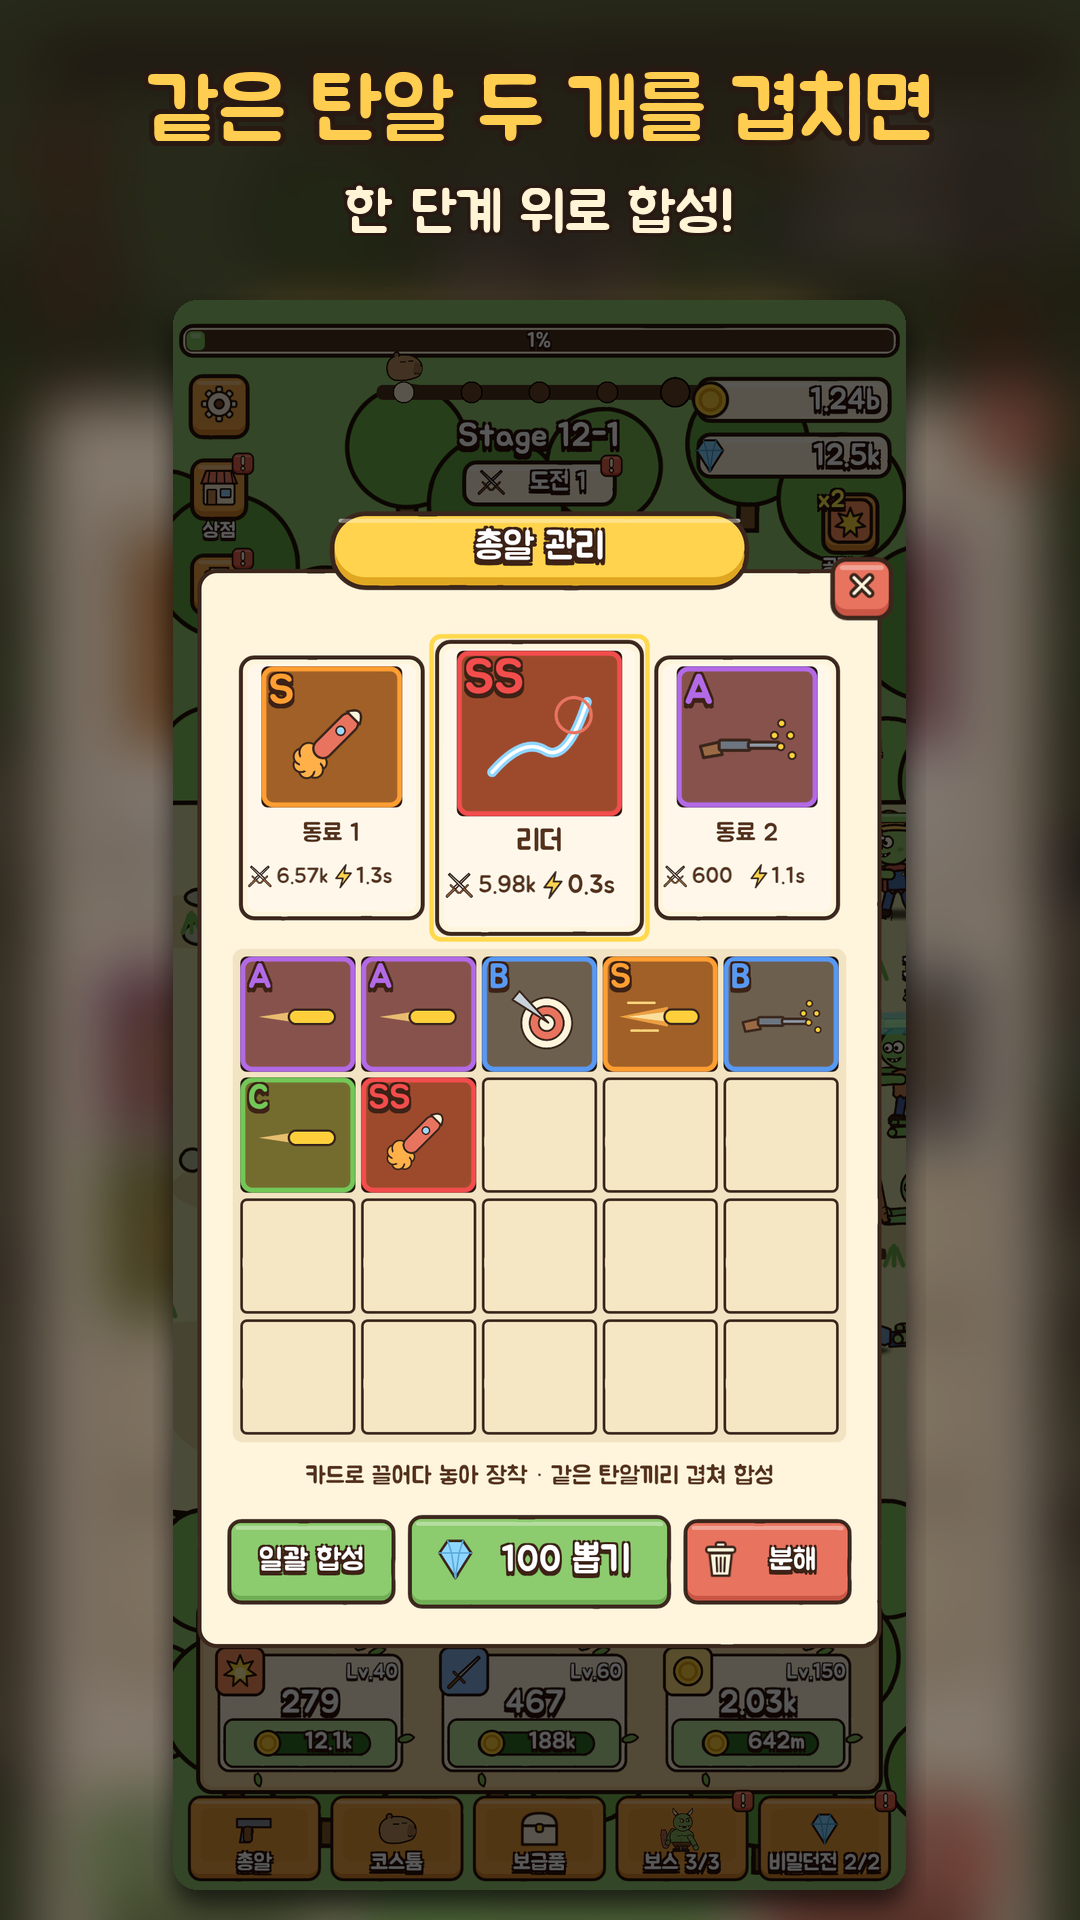
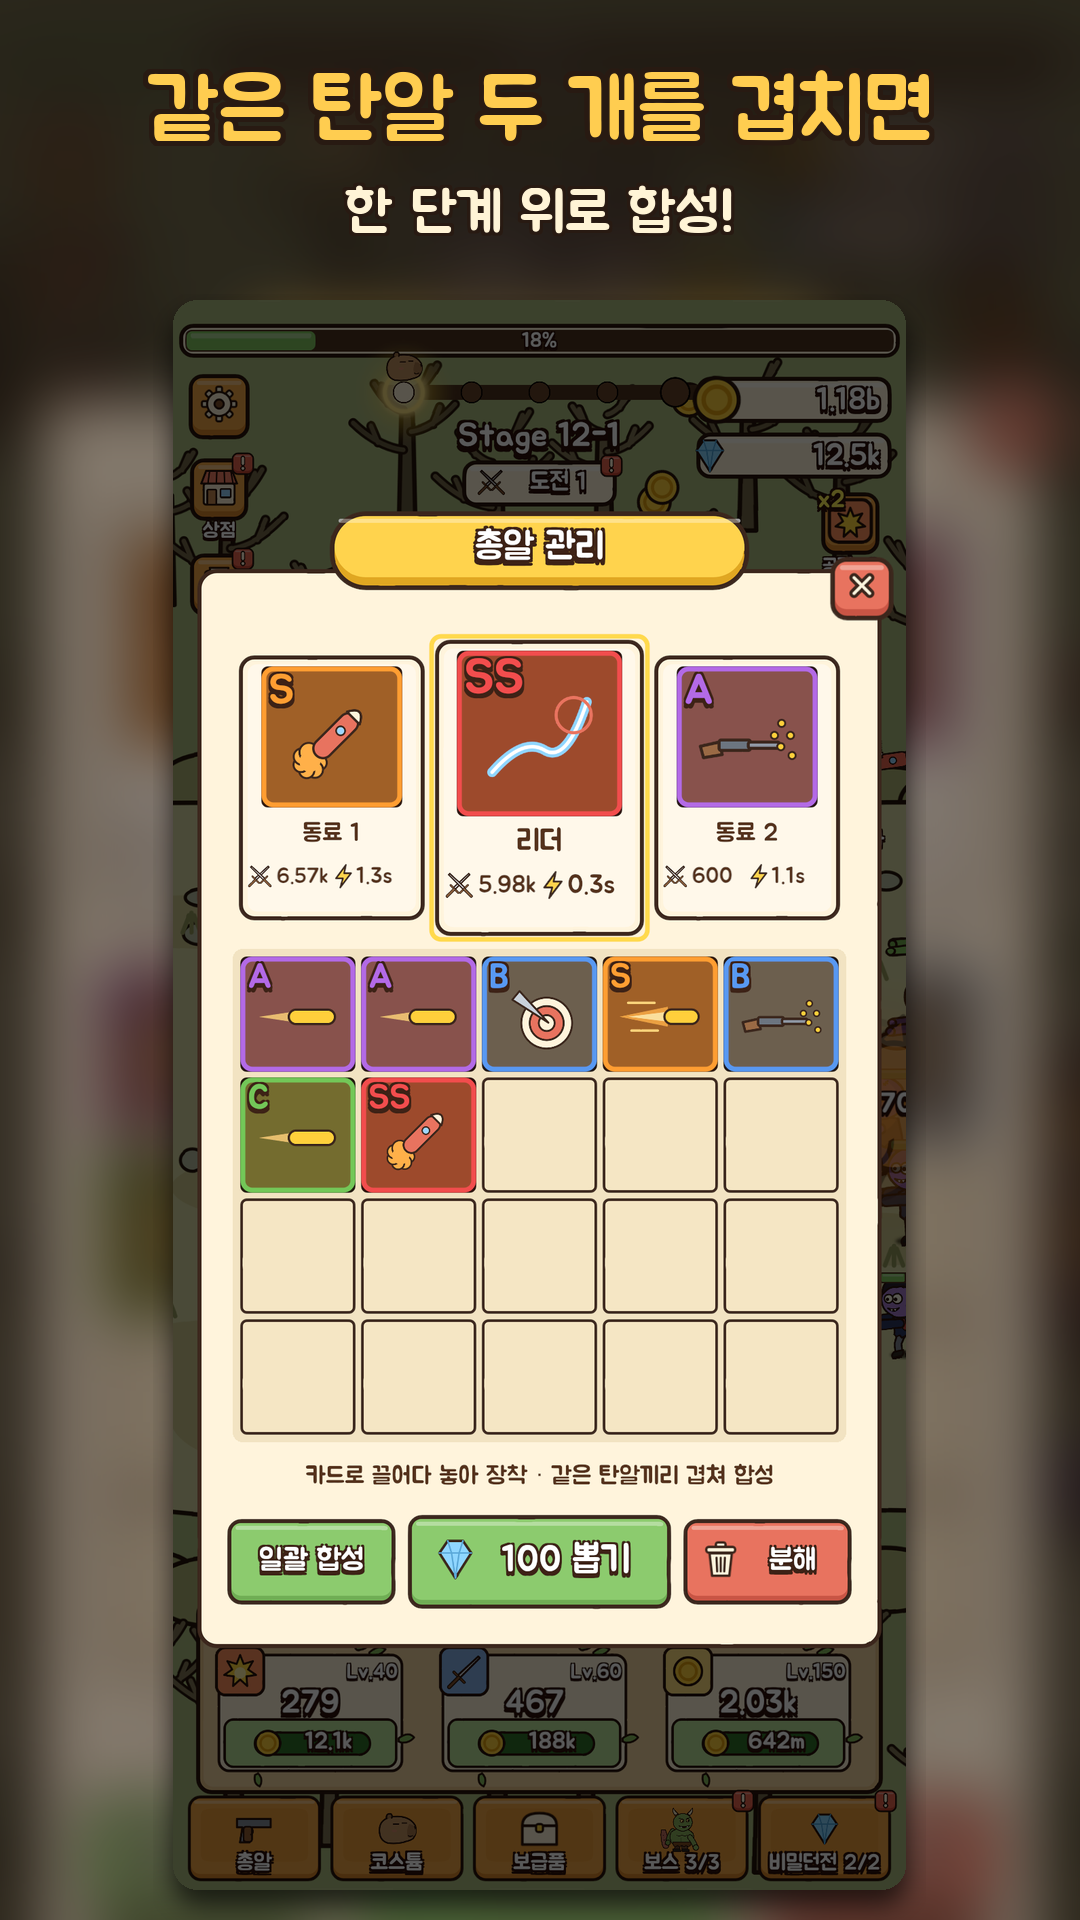
스토어 그림 다시: 스크린샷 8(새 배경 · 색 좀비 · 닻 선장 보스가 보이게 · 말풍선 · 코스튬 섞음) · 그래픽 이미지(해적 · 원시인 · 새싹 + 새 좀비) · 설명 좀비 44종 / 사용자 대사 3줄 영어

diff --git a/남은_작업_정리.html b/남은_작업_정리.html
@@ -176,13 +176,15 @@
     <li>스토어 페이지 동영상 칸에 유튜브 주소를 넣어 두셨다면: Play Console › 카피바라vs좀비 › 사용자 늘리기 › 스토어 등재 › 기본 스토어 등록정보 › <b>동영상</b> 칸도 새 주소(가로 15초 추천)로 → [저장]</li></ol></span>
     <span class="ok">✔ 끝난 표시: 영상을 열면 첫 장면 카피바라 머리에 새싹 · 강화 장면은 원시인(머리띠 · 표범 무늬) · 보스 장면은 해적 모자</span></span></label></li>
 
-  <li data-id="s-icon"><label><input type="checkbox"><span><span class="tag t-me">직접</span><b id="i-s-icon">스토어 앱 아이콘 바꾸기 (욱일기처럼 보이던 햇살 줄무늬 뺌)</b> <span class="time">5분 · 새 아이콘이 든 빌드를 올리는 날</span>
-    <span class="how">폰 홈 화면 아이콘은 다음 빌드부터 저절로 바뀌지만, <b>스토어 페이지 아이콘은 따로 올려야</b> 바뀝니다.</span>
-    <span class="need"><b>준비물</b> <code>Kachi_Gun\Assets\Art\AppIcon\app_icon.png</code> (512 x 512 · 11-11 새 판: 맑은 하늘 + 해 + 구름 두 개)</span>
+  <li data-id="s-icon"><label><input type="checkbox"><span><span class="tag t-me">직접</span><b id="i-s-icon">스토어 그림 · 글 바꾸기 (아이콘 · 그래픽 이미지 · 스크린샷 8 · 설명)</b> <span class="time">15분 · 새 좀비가 든 업데이트가 스토어에 나가는 날</span>
+    <span class="how">11-11 에 다시 만듦: 아이콘(햇살 줄무늬 뺌) · 그래픽 이미지(해적 · 원시인 · 새싹 + 새 좀비) · 스크린샷 8장(새 배경 · 색 좀비 · 새 보스 닻 선장 · 말풍선 · 코스튬 섞음, 2번 문구 "챕터마다 바뀌는 보스 6종 / 좀비 44종, 150챕터") · 설명 글 "좀비 12종" → "44종 · 보스 6종". <b>지금 스토어 판(8번)엔 새 좀비가 없으니, 새 좀비가 든 빌드가 나가는 날 같이 바꿔야</b> 화면과 실제 게임이 맞습니다.</span>
+    <span class="need"><b>준비물</b> <code>스토어 등록\</code> 의 앱아이콘_512.png · 그래픽이미지_1024x500.png · 스크린샷_01~08.png · 스토어_등록정보.html(설명 [복사])</span>
     <span class="how"><ol><li>Play Console(kachigoogoo) › 카피바라vs좀비 › 사용자 늘리기 › 스토어 등재 › 기본 스토어 등록정보 (못 찾으면 맨 위 검색창에 "스토어 등록정보")</li>
-    <li>그래픽 › <b>앱 아이콘</b> → 옛 그림 지우고 위 파일 올리기 → [저장] → 게시 개요에서 변경사항 검토 전송(관리형 게시가 꺼져 있으면 저절로)</li></ol></span>
-    <span class="ok">✔ 끝난 표시: 스토어 페이지(비로그인)의 아이콘 뒤가 줄무늬 없는 하늘색 바탕 — "크롬으로 봐줘" 하시면 제가 확인</span>
-    <span class="stuck"><b>막히면</b> 이전이 아직 안 끝나 kachigoogoo 에 앱이 없으면 이전 끝난 뒤(② 단계)에. 그래픽 이미지 1024x500 · 스크린샷은 옛 아이콘이 안 들어가 있어 그대로 둬도 됨.</span></span></label></li>
+    <li>그래픽 › <b>앱 아이콘</b> · <b>그래픽 이미지</b> → 옛 그림 지우고 새 파일 · <b>휴대전화 스크린샷</b> → 옛 8장 지우고 01~08 순서대로</li>
+    <li>자세한 설명 칸 → 스토어_등록정보.html 의 한국어 설명 [복사] 붙여 넣기 (영어 번역을 넣어 두셨다면 영어도)</li>
+    <li>[저장] → 게시 개요에서 변경사항 검토 전송(관리형 게시가 꺼져 있으면 저절로)</li></ol></span>
+    <span class="ok">✔ 끝난 표시: 스토어 페이지(비로그인)의 아이콘 뒤가 줄무늬 없는 하늘 · 첫 스크린샷에 새싹 카피바라와 "좀비가 몰려온다!" 말풍선 — "크롬으로 봐줘" 하시면 제가 확인</span>
+    <span class="stuck"><b>막히면</b> 이전이 아직 안 끝나 kachigoogoo 에 앱이 없으면 이전 끝난 뒤(② 단계)에. 옛 그림은 스크래치 store_before/ 에 있음.</span></span></label></li>
 
   <li data-id="r-admob"><label><input type="checkbox"><span><span class="tag t-me">직접</span><b id="i-r-admob">AdMob 스토어 연결</b> <span class="time">5분 · 11-11 다시</span>
     <span class="how">AdMob 이 "이 앱이 스토어의 그 앱"임을 알아야 광고 제한이 풀립니다. 지금은 앱이 "검토 필요·제한" 상태. 이전과 상관없음(광고 ID · AdMob 계정 그대로).</span>

diff --git a/스토어 등록/스토어_등록정보.html b/스토어 등록/스토어_등록정보.html
@@ -71,7 +71,7 @@
 - 장착 칸 강화로 총알을 더 강하게
 
 ■ 150개 챕터, 750개 스테이지
-- 12종의 좀비와 챕터마다 기다리는 보스
+- 44종의 좀비와 챕터마다 바뀌는 보스 6종
 - 보스를 못 이기면 반복 사냥으로 골드를 모아 다시 도전
 
 ■ 던전과 광산
@@ -87,7 +87,7 @@
 ■ 한국어 · English 지원
 
 지금 카피바라 분대를 이끌고 좀비 떼를 막아 보세요!</textarea>
-  <p class="hint">4000자까지. 지금 빌드에 실제로 있는 것만 적었습니다 (챕터 150 · 스테이지 750 · 좀비 12종 · 총알 6종 13등급 · 스킨 18 · 보급품 25 · 미션 5). 광고·결제는 아직 실제로 붙지 않아 뺐습니다. "방치형" 이지만 꺼 두는 동안 쌓이는 보상(오프라인 보상)은 없으니 그 말은 넣지 않았습니다.</p>
+  <p class="hint">4000자까지. 지금 빌드에 실제로 있는 것만 적었습니다 (챕터 150 · 스테이지 750 · 좀비 44종(11-11 업데이트부터, 보스 6) · 총알 6종 13등급 · 스킨 18 · 보급품 25 · 미션 5). 광고·결제는 아직 실제로 붙지 않아 뺐습니다. "방치형" 이지만 꺼 두는 동안 쌓이는 보상(오프라인 보상)은 없으니 그 말은 넣지 않았습니다.</p>
 </div>
 
 <h2>2. 앱 세부정보 — 영어 (en-US)</h2>
@@ -118,7 +118,7 @@ Just leave the game on — your capybaras shoot automatically while you upgrade 
 - Enhance your equip slots for even more power
 
 ■ 150 chapters, 750 stages
-- 12 zombie types and a boss at the end of every chapter
+- 44 zombie types and 6 bosses that change every chapter
 - Lost to a boss? Farm gold and try again
 
 ■ Dungeons and the mine

diff --git a/Kachi_Gun/Assets/Scripts/Editor/PlayTest.cs b/Kachi_Gun/Assets/Scripts/Editor/PlayTest.cs
@@ -1257,17 +1257,27 @@ namespace KachiGun.EditorTools
             SetupCapture();
             // 11-07: 좀비가 오른쪽 끝에서 바로 죽어 화면이 비어 보였음 → 사격을 잠깐 멈추고(HoldFire) 좀비가 화면 가운데까지 걸어오면 쏘기 시작 → 잠깐 뒤 찍음
             int Near(float frac) { int n = 0; foreach (var t in Target.All) if (t is Zombie z && z.Alive && !z.isBoss && z.Pos.x < Field.I.ViewHalfW * frac) n++; return n; }
+            // 11-11: 코스튬을 장마다 새싹(3) · 해적 선장(17) · 원시인(6) 으로 섞고, 리더 말풍선을 넣어 찍음
+            void Dress(int k) { S.skin = k; Squad.I.SetSkin(k); GM.Notify(); }
+            void Say(string s) { Speech.I.Clear(); Speech.I.Show(Squad.I.Leader, L.T(s)); }
+            Dress(3);   // 11챕터 = 푸르딩딩 좀비 · 세모 나무 배경
             GameManager.HoldFire = true;
             yield return WaitUntil(() => Near(0.3f) >= 10, 25f);
             GameManager.HoldFire = false;
+            Say("좀비가 몰려온다!");
             yield return Wait(0.45f);
             Log($"01 전투: 가운데까지 온 좀비 {Near(0.3f)} · 전체 {Target.All.Count}");
             Capture("store/01_battle");
 
             // 보스 (챕터 마지막 스테이지 11-5 = 54)
+            Dress(17);   // 11챕터 보스 = 닻 선장 ↔ 해적 선장 카피바라
+            // 11-11: 예전엔 보스가 오른쪽 끝에서 맞고 있어 화면에 안 보였음 → 사격을 멈추고 보스가 화면 안쪽까지 걸어오면 쏘기 시작
             S.stage = 54; S.kills = GM.Quota; GM.Notify();
-            yield return WaitUntil(() => GM.boss != null && GM.boss.transform.position.y < Field.I.PlayTop - 4.5f, 45f);
-            yield return Wait(1.5f);
+            GameManager.HoldFire = true;
+            yield return WaitUntil(() => GM.boss != null && GM.boss.Pos.x < Field.I.ViewHalfW * 0.4f, 45f);
+            GameManager.HoldFire = false;
+            Say("보스다!! 조심해!!");
+            yield return Wait(0.4f);
             Log($"보스: {(GM.boss != null ? "있음 y=" + GM.boss.transform.position.y.ToString("0.0") : "없음")}");
             Capture("store/02_boss");
             if (GM.boss != null) GM.boss.Hit(GM.boss.hp + 1, GM.boss.Pos);
@@ -1279,18 +1289,21 @@ namespace KachiGun.EditorTools
             // 상위 총알 전투
             S.slots[0] = Tables.Code(9, "laser"); S.slots[1] = Tables.Code(9, "missile"); S.slots[2] = Tables.Code(8, "laser");
             S.lvAtk = 0; S.lvSpd = 0;   // 상위 총알이라 강화를 빼야 좀비가 화면에 남아 보임
+            S.skin = 6; S.stage = 64; GM.AdvanceStage(); GM.ClearTargets(); Speech.I.Clear();   // 11-11: 14-1 = 붉은 좀비 · 황폐 배경 · 원시인 (스테이지 글자까지 바뀌게 넘어가기로)
             Squad.I.Rebuild(); GM.Notify();
             GameManager.HoldFire = true;
             yield return WaitUntil(() => Near(0.3f) >= 10, 25f);
             GameManager.HoldFire = false;
             yield return Wait(0.35f);
             Log($"04 상위 총알: 가운데까지 온 좀비 {Near(0.3f)} · 전체 {Target.All.Count}");
+            Speech.I.Clear();
             Capture("store/04_high");
 
             HUD.I.Open<SupplyPopup>(); yield return Wait(0.4f); Capture("store/05_supply"); CloseAll();
             HUD.I.Open<SkinPopup>(); yield return Wait(0.4f); Capture("store/06_skin"); CloseAll();
 
             // 광산
+            Dress(3); Speech.I.Clear();
             S.RefreshDaily();
             // 11-07: "비밀던전" 알림 글자가 사라진 뒤 찍음 (전엔 0.9초라 글자가 가운데를 가렸음)
             if (GM.StartMine() == null) { yield return Wait(2.2f); Capture("store/07_mine"); GM.dungeonTime = 0.05f; yield return Wait(0.5f); HUD.I.Get<ResultPopup>()?.Close(); yield return Wait(0.4f); }
@@ -1298,6 +1311,7 @@ namespace KachiGun.EditorTools
 
             // 도전
             // 11-07: 3초면 이미 다 잡아 결과 창이 찍혔음 → 싸우는 중에 (알림 글자가 흐려질 때쯤)
+            Dress(17); Speech.I.Clear();
             GameManager.HoldFire = true;   // 도전 좀비는 제자리에 서 있음 → 알림 글자가 사라질 때까지 쏘지 않고 기다렸다가 잠깐 쏨
             if (GM.StartChallenge() == null) { yield return Wait(1.9f); GameManager.HoldFire = false; yield return Wait(0.12f); Log($"08 도전: 남은 좀비 {GM.DungeonLeft}"); Capture("store/08_challenge"); HUD.I.Get<ResultPopup>()?.Close(); GM.ExitDungeon(); }
             else Log("도전 못 들어감");

diff --git a/tools/store_graphics.py b/tools/store_graphics.py
@@ -22,7 +22,7 @@ OUT = os.path.join(ROOT, '스토어 등록')
 # (캡처 이름, 문구 1줄, 문구 2줄)
 SHOTS = [
     ('01_battle', '켜 두면 알아서 싸운다!', '카피바라 분대 방치형 슈팅'),
-    ('02_boss', '챕터마다 기다리는 보스', '150챕터, 750스테이지'),
+    ('02_boss', '챕터마다 바뀌는 보스 6종', '좀비 44종, 150챕터'),
     ('03_weapon', '같은 탄알 두 개를 겹치면', '한 단계 위로 합성!'),
     ('04_high', 'D부터 SSU까지 13등급', '레이저와 미사일의 화끈한 화력'),
     ('05_supply', '25가지 보급품 수집', '모을수록 강해지는 보유 효과'),
@@ -70,13 +70,16 @@ def screenshot(name, l1, l2):
     return canvas
 
 
-def capy_and_zombie(h):
-    s = Image.open(os.path.join(ART, 'Char', 'skin_17.png')).convert('RGBA')   # 해적 선장
-    c = 8
+def capy(skin, c=8):
+    s = Image.open(os.path.join(ART, 'Char', 'skin_%02d.png' % skin)).convert('RGBA')
     cap = s.crop(((c % 4) * 360, (c // 4) * 360, (c % 4 + 1) * 360, (c // 4 + 1) * 360))
-    cap = cap.crop(cap.getbbox())
+    return cap.crop(cap.getbbox())
+
+
+def capy_and_zombie(h):
+    cap = capy(17)   # 해적 선장
     zs = []
-    for zn in ('z_basic', 'z_fat', 'z_hat'):
+    for zn in ('z_basic', 'z_cowboy', 'z_chef'):   # 11-11: 새 좀비도 섞음
         z = Image.open(os.path.join(ART, 'Zombie', zn + '.png')).convert('RGBA').crop((0, 0, 400, 380))
         zs.append(z.crop(z.getbbox()).transpose(Image.FLIP_LEFT_RIGHT))
     sc = lambda im, hh: im.resize((int(im.width * hh / im.height), hh), Image.NEAREST)
@@ -96,10 +99,17 @@ def feature_graphic():
         a = int(max(0, min(1, 1 - (x - 80) / 520)) * 150)
         ImageDraw.Draw(shade).line([(x, 0), (x, H)], fill=a)
     canvas.alpha_composite(Image.merge('RGBA', (*Image.new('RGB', (W, H), (0, 0, 0)).split(), shade)))
-    cap, zs = capy_and_zombie(330)
-    for i, z in enumerate(zs):
-        canvas.alpha_composite(z, (720 + i * 95 - (40 if i == 1 else 0), H - z.height - 30 - (25 if i == 1 else 0)))
-    canvas.alpha_composite(cap, (540, H - cap.height - 20))
+    # 11-11 요청_04: 코스튬 섞기 — 뒤에 원시인 · 새싹(작게), 앞에 해적 선장 / 좀비 셋(기본 · 카우보이 · 요리사)은 오른쪽에 계단처럼
+    cap, zs = capy_and_zombie(290)
+    sc = lambda im, hh: im.resize((int(im.width * hh / im.height), hh), Image.NEAREST)
+    zs = [sc(z, 215) for z in zs]
+    for k, (zx, zb) in enumerate(((835, 150), (745, 75), (815, 14))):
+        z = zs[[2, 0, 1][k]]
+        canvas.alpha_composite(z, (zx, H - z.height - zb))
+    b1, b2 = sc(capy(6), 210), sc(capy(3), 210)
+    canvas.alpha_composite(b1, (440, H - b1.height - 175))
+    canvas.alpha_composite(b2, (610, H - b2.height - 190))
+    canvas.alpha_composite(cap, (495, H - cap.height - 12))
     d = ImageDraw.Draw(canvas)
     text_outline(d, (270, 185), '카피바라', font(96), GOLD, w=8)
     text_outline(d, (270, 290), 'vs 좀비', font(96), (150, 230, 120), w=8)

diff --git a/tools/speech_add_1111.py b/tools/speech_add_1111.py
@@ -5,6 +5,7 @@
     Who: Leader = 가운데 리더 · Any = 아무나
     Weight: 같은 Trigger 안에서 나올 비중
 사용: PYTHONUTF8=1 python tools/speech_add_1111.py → python tools/xlsx2csv.py
+  ※ speech() 는 Speech.xlsx 를 새로 씀 — 사용자가 표에 직접 넣은 줄은 먼저 LINES 에 옮길 것
 """
 import os
 import openpyxl
@@ -24,6 +25,10 @@ LINES = [
     ('rand_6', 'Random', 'Any', 1, '조준 똑바로!', 'Aim steady!'),
     ('rand_7', 'Random', 'Any', 1, '숲은 우리가 지킨다!', "We'll protect the forest!"),
     ('rand_8', 'Random', 'Any', 1, '아직 멀었어!', "We're just getting started!"),
+    # 11-11 사용자가 Speech.xlsx 에 직접 넣은 3줄
+    ('rand_9', 'Random', 'Any', 1, '조금 더 힘을 내!', 'Just a little more!'),
+    ('rand_10', 'Random', 'Any', 1, '껄껄껄!', 'Hahaha!'),
+    ('rand_11', 'Random', 'Any', 1, '카피바라는 귀엽다!!', 'Capybaras are cute!!'),
 ]
 
 CONFIG = [
